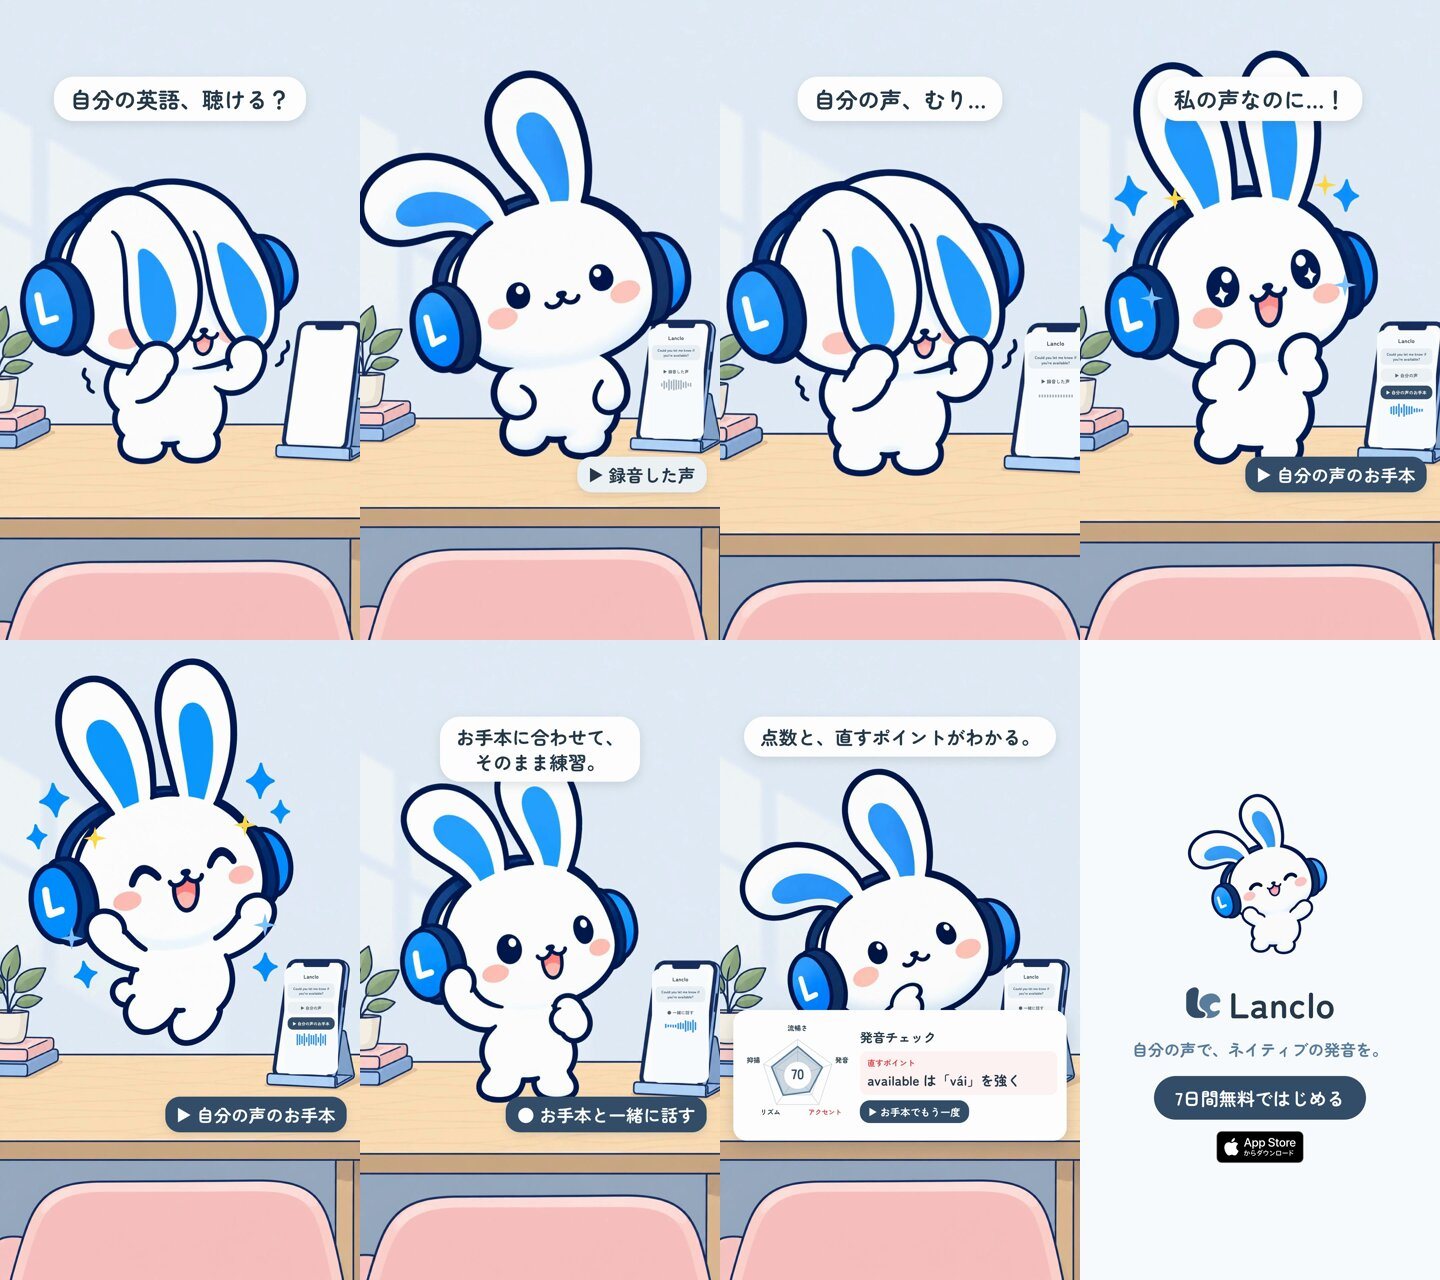
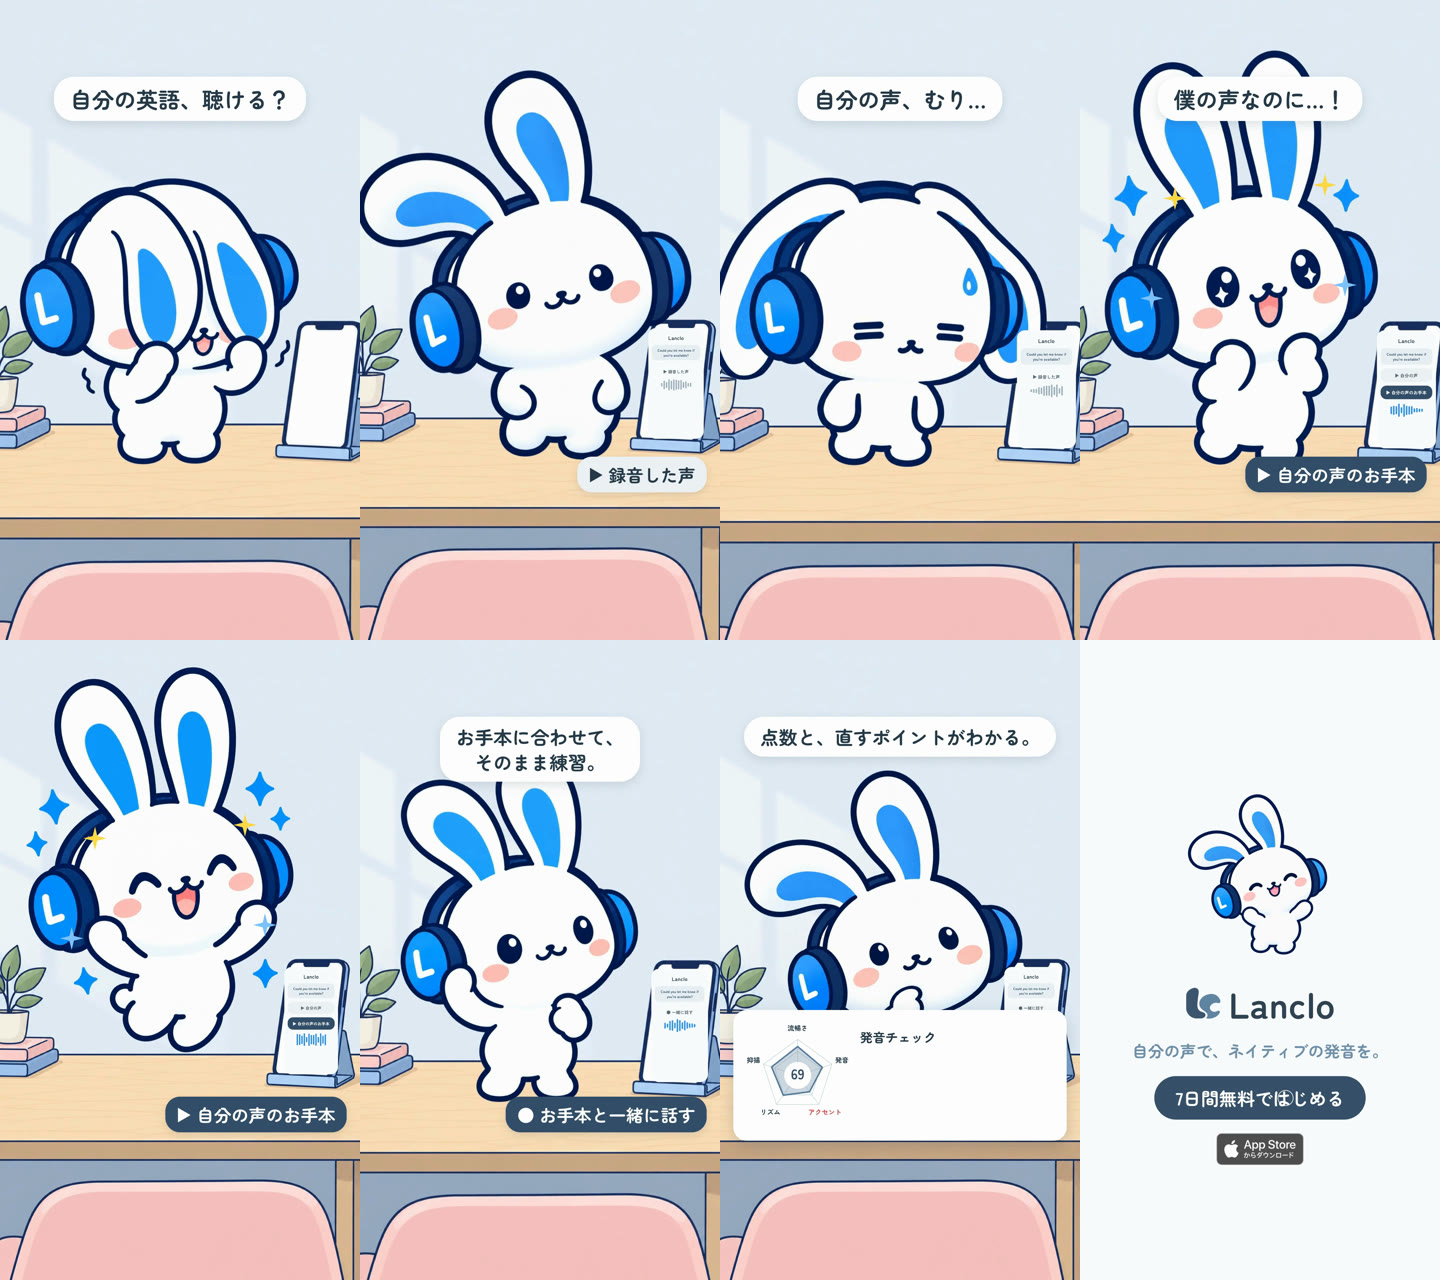
mimi-jibun-no-koe: Mimi says 僕: change her first person in Japanese text (owner rule 2026-10-21)

diff --git a/films/mimi-jibun-no-koe/source/hf-short/index.html b/films/mimi-jibun-no-koe/source/hf-short/index.html
@@ -146,7 +146,7 @@
       <div id="cap-1" class="caption clip" data-start="0" data-duration="1.0" data-track-index="6"><span id="c1">自分の英語、聴ける？</span></div>
       <div id="cap-2" class="caption clip" data-start="4.2" data-duration="0.9" data-track-index="6"><span id="c2">自分の声、むり…</span></div>
       <div id="cap-3" class="caption clip" data-start="5.2" data-duration="1.2" data-track-index="6"><span id="c3">自分の声のお手本</span></div>
-      <div id="cap-4" class="caption clip" data-start="6.4" data-duration="1.1" data-track-index="6"><span id="c4">私の声なのに…！</span></div>
+      <div id="cap-4" class="caption clip" data-start="6.4" data-duration="1.1" data-track-index="6"><span id="c4">僕の声なのに…！</span></div>
       <div id="cap-5" class="caption small clip" data-start="8.2" data-duration="1.7" data-track-index="6"><span id="c5">声はあなたのまま、<br />発音だけネイティブに。</span></div>
       <div id="cap-6" class="caption small clip" data-start="9.9" data-duration="1.5" data-track-index="6"><span id="c6">お手本に合わせて、<br />そのまま練習。</span></div>
       <div id="cap-8" class="caption small clip" data-start="11.4" data-duration="1.6" data-track-index="6"><span id="c8">点数と、直すポイントがわかる。</span></div>

diff --git a/films/mimi-jibun-no-koe/source/scripts/shots.py b/films/mimi-jibun-no-koe/source/scripts/shots.py
@@ -39,7 +39,7 @@ TIMELINE = [
     (4.6, 5.1, ['S5a'], '自分の声、むり…', 'pofu'),
     (5.1, 5.7, ['S6a'], '', 'paw taps 自分の声のお手本'),
     (5.7, 6.4, ['S7a'], '自分の声のお手本', 'model voice starts; peek'),
-    (6.4, 7.5, ['S7b'], '私の声なのに…！', 'ears shoot up'),
+    (6.4, 7.5, ['S7b'], '僕の声なのに…！', 'ears shoot up'),
     (7.5, 8.2, ['S8a'], '', 'spin hop; sparkle sting'),
     (8.2, 12.6, ['S9a', 'S9b'], '声はあなたのまま、\n発音だけネイティブに。', 'fist pump, then hero pose with the phone'),
     (12.6, 15.0, [], 'END', 'Lanclo end card'),

diff --git a/films/mimi-jibun-no-koe/PROCESS.md b/films/mimi-jibun-no-koe/PROCESS.md
@@ -108,3 +108,9 @@ Codexの通しレビュー（[reviews/final-cut-review.md](reviews/final-cut-rev
 - **画面上の文字は端末で読める大きさに。** スマホの中のUIは雰囲気だけで、意味は大きなラベルで伝える。
 - **カードやラベルはキャラクターの顔を隠さない位置に。** 下端約400 pxはSNSのボタン用に空ける。
 - **レビューは絵コンテ段階と完成直前の2回。** どちらもCodexの指摘は具体的で、ほぼ採用できた。
+
+## 2026-10-21 Mimiの一人称を「僕」に
+
+オーナー：「Mimiの一人称は僕で。別に性別は気にしてないけど、文字は僕にしておいて」
+
+Mimiの字幕「私の声なのに…！」（6.4–7.5秒）を「僕の声なのに…！」に変更（`source/hf-short/index.html`、`source/scripts/shots.py`）。上の記録にある「私の声なのに…！」は当時の文言。英語字幕は変更なし。2本とも書き出し直し、Driveの完成版を差し替えた（前の完成版は `old/`）。

diff --git a/films/mimi-jibun-no-koe/PROMPT.md b/films/mimi-jibun-no-koe/PROMPT.md
@@ -19,7 +19,7 @@ LancloのマスコットMimiが主役の、15秒の縦型ショート（1080×19
 | 4.6–5.1 | また耳で隠れる | ぽふっ |
 | 5.1–5.7 | 隠れたまま手だけ伸ばして「自分の声のお手本」をタップ | 「自分の声のお手本」（1.2秒） |
 | 5.7–6.4 | 耳の隙間からのぞく | お手本の声 |
-| 6.4–7.5 | 耳がピン、キラキラ目 | 「私の声なのに…！」／「▶ 自分の声のお手本」ラベル |
+| 6.4–7.5 | 耳がピン、キラキラ目 | 「僕の声なのに…！」／「▶ 自分の声のお手本」ラベル |
 | 7.5–8.2 | ジャンプ | ぴょん |
 | 8.2–9.4 | ガッツポーズ | 「声はあなたのまま、発音だけネイティブに。」 |
 | 9.4–11.4 | お手本と一緒に話す（口パクは声の音節に合わせる） | 「お手本に合わせて、そのまま練習。」／お手本の声 |
